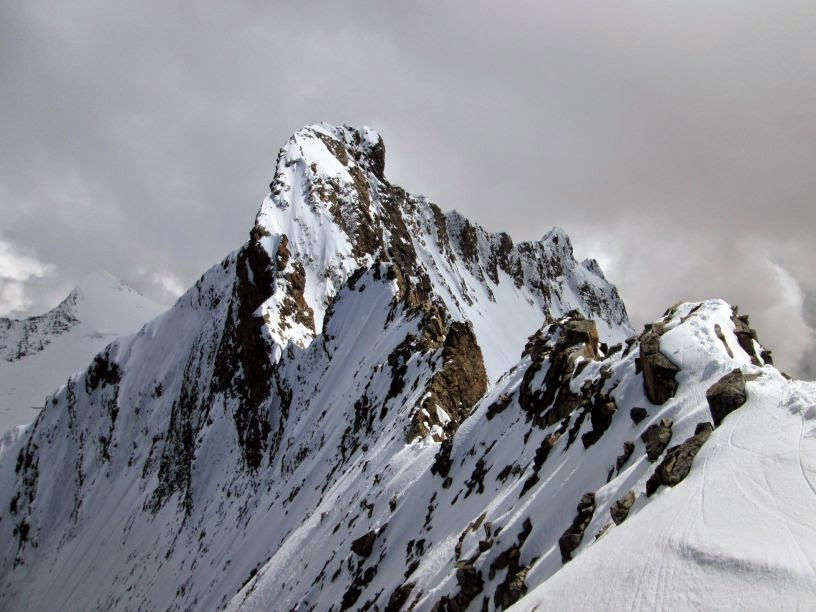
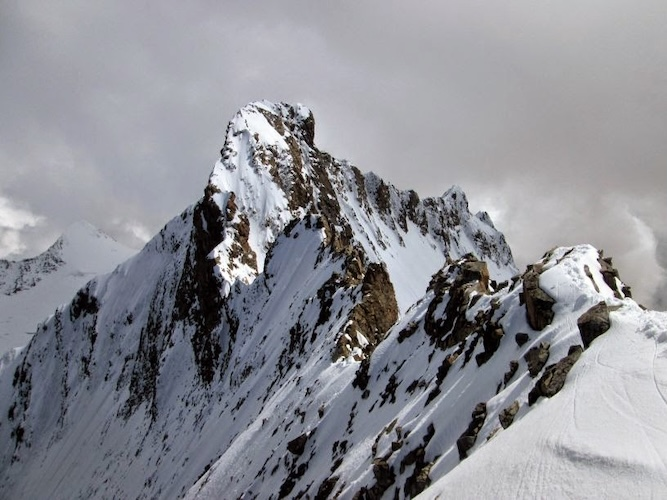
Resize the Some Photos pictures!

diff --git a/index.html b/index.html
@@ -127,7 +127,7 @@
             <h2>Some Photos...</h2>
             <div class="image-gallery">
                 <div class="gallery-item" style="background-image: url('../img/gallery/helvetia.jpg');"></div>
-                <div class="gallery-item" style="background-image: url('../img/gallery/swiss.jpeg');"></div>
+                <div class="gallery-item" style="background-image: url('../img/gallery/swiss.jpg');"></div>
                 <div class="gallery-item" style="background-image: url('../img/gallery/acis.jpg');"></div>
                 <div class="gallery-item" style="background-image: url('../img/gallery/coglians.jpg');"></div>
                 <div class="gallery-item" style="background-image: url('../img/gallery/bernina.jpg');"></div>
